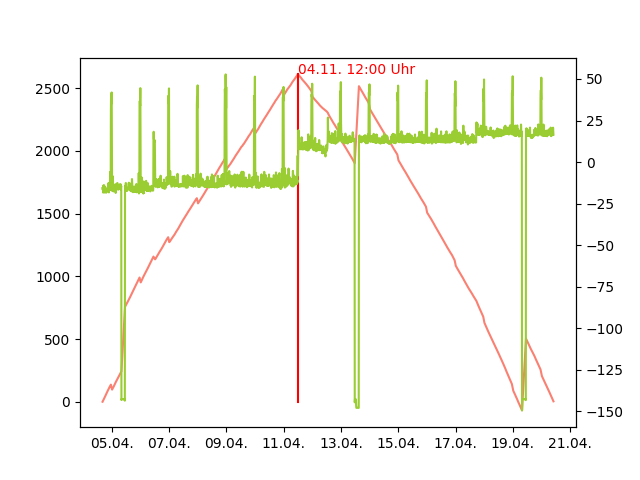
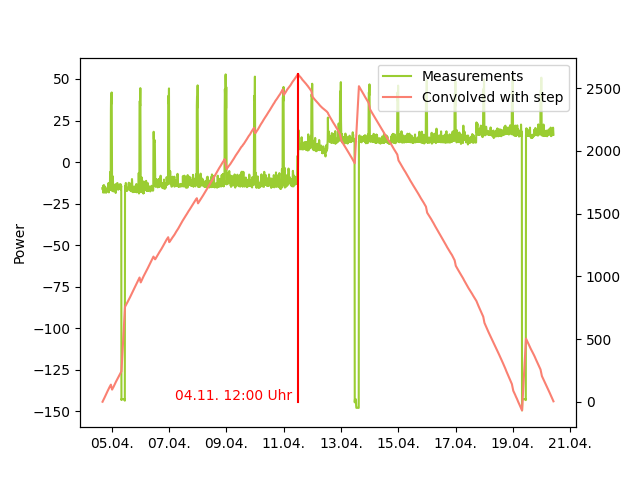
Added labels for convolve plot

diff --git a/influxdb_analyse.py b/influxdb_analyse.py
@@ -62,7 +62,7 @@ def read_signal(signal):
     df = query.query_data_frame(q)
 
     df["_time"] = pd.to_datetime(df['_time'])
-    df = df.drop(columns=["_start", "_stop"]) # they are useless
+    df = df.drop(columns=["_start", "_stop"])  # they are useless
     return df
 
 
@@ -80,15 +80,22 @@ def find_step():
 
     # plots
     fig, ax1 = plt.subplots()
-    ax1.plot(df["_time"], data_step[:-1] / 10, color='salmon')
+    ax1.plot(df["_time"], df["value"], color='yellowgreen', label="Measurements")
+    ax1.set_ylabel("Power")
 
-    ax2 = ax1.twinx()  # instantiate a second axes that shares the same x-axis
-    ax2.plot(df["_time"], df["value"], color='yellowgreen')
-
-    ax1.plot((step_time, step_time), (data_step[step_index] / 10, 0), 'r')
     ax1.xaxis.set_major_formatter(DateFormatter('%d.%m.'))
 
-    ax1.text(step_time, data_step[step_index] / 10, step_time.strftime("%m.%d. %H:%M Uhr"), color='r')
+    ax2 = ax1.twinx()  # instantiate a second axes that shares the same x-axis
+    ax2.plot(df["_time"], data_step[:-1] / 10, color='salmon', label="Convolved with step")
+    ax2.plot((step_time, step_time), (data_step[step_index] / 10, 0), 'r')
+
+    ax2.text(df["_time"].loc[step_index - 620], 10, step_time.strftime("%m.%d. %H:%M Uhr"), color='r')
+    # added these three lines
+    # ask matplotlib for the plotted objects and their labels
+    lines, labels = ax1.get_legend_handles_labels()
+    lines2, labels2 = ax2.get_legend_handles_labels()
+    ax2.legend(lines + lines2, labels + labels2, loc=0)
+
     plt.show()
 
 
@@ -107,18 +114,17 @@ def analyze_waggons():
     df_times = pd.DataFrame(columns=['delta_time', 'waggon'])
     for index, row in signals_cam[:-1].iterrows():
         # for each waggon let's find the next occurrence
-        for index_n, row_n in signals_cam[index :].iterrows():
+        for index_n, row_n in signals_cam[index:].iterrows():
             if row_n["value"] == row["value"]:
                 new_item = {
-                    'delta_time' : (row_n["_time"] - row["_time"]).total_seconds(),
-                    'waggon' : row["value"]
+                    'delta_time': (row_n["_time"] - row["_time"]).total_seconds(),
+                    'waggon': row["value"]
                 }
                 df_times = pd.concat([df_times, pd.DataFrame([new_item])])
                 break
 
-
     print(f"Roundtrip times: ")
-    print(df_times.groupby(["waggon"]).agg(['count','mean', 'std']))
+    print(df_times.groupby(["waggon"]).agg(['count', 'mean', 'std']))
 
 
 def analyze_waggons_loads():
@@ -126,10 +132,8 @@ def analyze_waggons_loads():
     signal_cam = read_signal("KameraP")[10:]
     signal_cam = signal_cam[signal_cam["value"] != 0]
 
-
     print(f"Total time {(signal_cam['_time'].max() - signal_cam['_time'].min()).total_seconds():.2f} s")
     print(f"Total time {(signal_10B3['_time'].max() - signal_10B3['_time'].min()).total_seconds():.2f} s")
-
 
     signal_10B3["state"] = np.where(signal_10B3["value"] > 0.1, "On", "Off")
 
@@ -141,7 +145,7 @@ def analyze_waggons_loads():
     signal_cam["value"].astype(np.int32).astype("str")
     ax2 = ax1.twinx()  # instantiate a second axes that shares the same x-axis
 
-    colors = {'12':'tab:brown', '19':'tab:orange', '23':'tab:purple', '24':'tab:brown'}
+    colors = {'12': 'tab:brown', '19': 'tab:orange', '23': 'tab:purple', '24': 'tab:brown'}
     wagons = signal_cam["value"].astype(np.int32).astype("str")
     ax2.scatter(signal_cam["_time"], wagons, c=wagons.map(colors))
     ax2.margins(y=0.4)
@@ -153,8 +157,6 @@ def analyze_waggons_loads():
     plt.show()
 
 
-
-
 if __name__ == '__main__':
-    # find_step()
+    find_step()
     analyze_waggons_loads()
